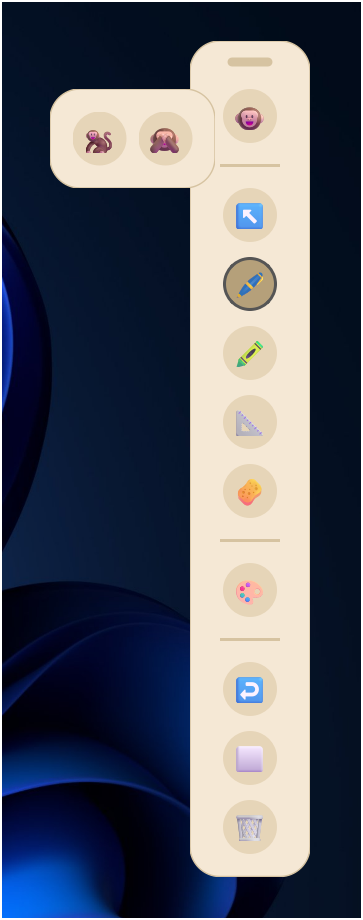
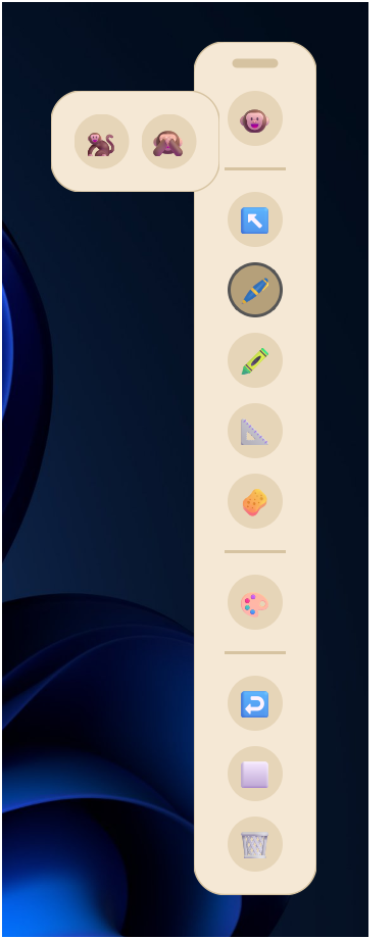
docs: normalize screenshot gallery heights to exactly 400px for uniform alignment

diff --git a/README.md b/README.md
@@ -8,11 +8,11 @@
 A high-performance, lightweight, and completely free screen annotation tool built specifically and optimized for Windows 11. 
 
 <p align="center">
-  <img src="assets/screenshot_palette.png" alt="Pen 11 Toolbar & Color Palette" width="31%">
-  &nbsp;
-  <img src="assets/screenshot_shapes.png" alt="Pen 11 Shapes Menu" width="31%">
-  &nbsp;
-  <img src="assets/screenshot_cursor.png" alt="Pen 11 Cursor Flyout" width="31%">
+  <img src="assets/screenshot_palette.png" alt="Pen 11 Toolbar & Color Palette" height="400">
+  &nbsp;&nbsp;
+  <img src="assets/screenshot_shapes.png" alt="Pen 11 Shapes Menu" height="400">
+  &nbsp;&nbsp;
+  <img src="assets/screenshot_cursor.png" alt="Pen 11 Cursor Flyout" height="400">
 </p>
 
 ---
